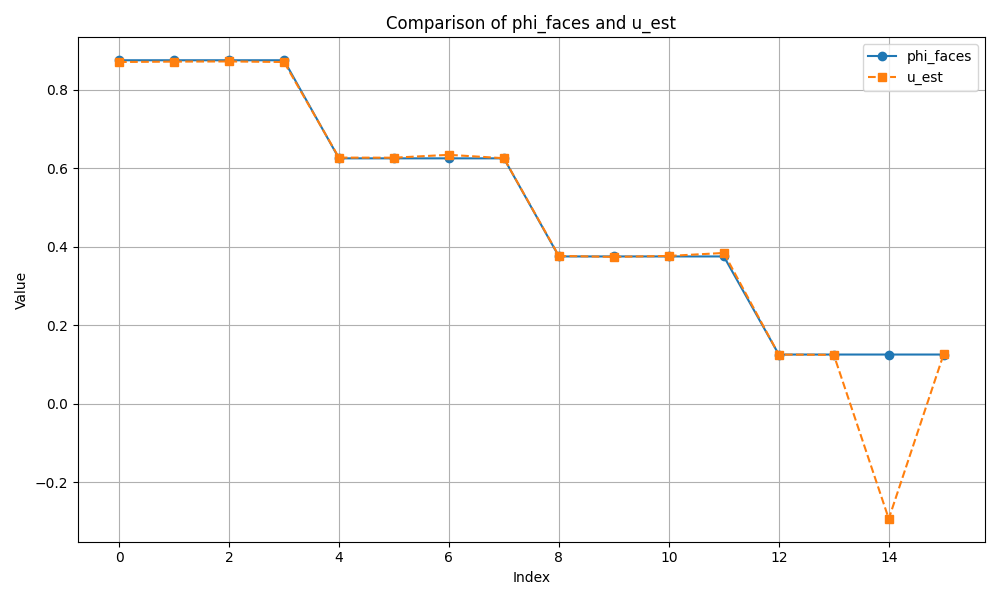
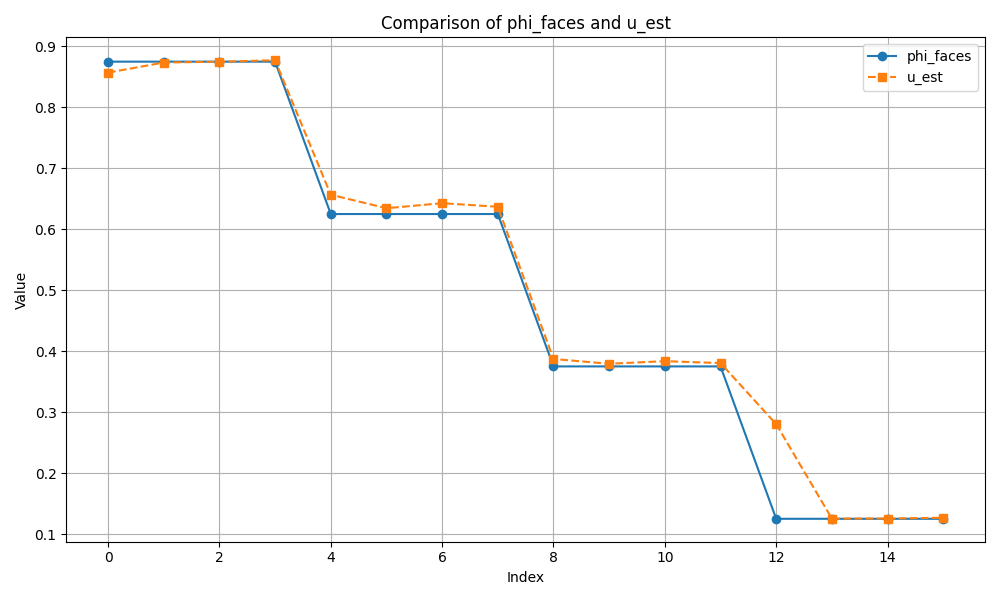
finished up

diff --git a/ddec/train.py b/ddec/train.py
@@ -1,4 +1,5 @@
 import matplotlib.pyplot as plt
+import numpy as np
 from DDEC_Net import DDECModel, PerturbNet
 import torch
 from tqdm import tqdm
@@ -30,15 +31,6 @@ def train_main(N, alpha, iter, tol, epsilon, in_dim, out_dim, epochs, problem_ty
     u = u.to(device)
     perturb = perturb.to(device)
 
-    #print batches
-    for X in batches:
-        f, phi_faces, alpha = X
-        print(f)
-        print(phi_faces)
-        print(alpha)
-
-
-
     with tqdm(total= epochs, desc="Training", unit="epoch", colour='green') as pbar:
         for epoch in range(epochs):
             perturb_contribution = 0
@@ -65,17 +57,12 @@ def train_main(N, alpha, iter, tol, epsilon, in_dim, out_dim, epochs, problem_ty
                 optimizer.zero_grad()
 
                 losses.append(loss.item())
-            val = perturb_contribution / len(batches)
 
             pbar.set_postfix({
-        "loss": f"{loss.item():.4f}",
-        "NN val ": f"{val:.4e}"
+        "loss": f"{loss.item():.8f}"
     })
             pbar.update(1)
 
-            # if (loss.item() < 1e-10):
-            #     print(f"Converged at epoch {epoch} with loss {loss.item()}")
-            #     brea
     print(f"Training completed after {epochs} epochs with final loss: {loss.item()}")
 
     for X in batches:

diff --git a/ddec/utils.py b/ddec/utils.py
@@ -120,6 +120,5 @@ def plot_results(phi_faces,u_est, N, problem_type,alpha,show_plot=False):
         plt.savefig(f'../results/N={N}_alpha={alpha}_D2_results.png')
     if show_plot:
         plt.show()
-    print("Training completed successfully.")
     print(f"Loss comparison plot saved in /results")
     #plt.show()

diff --git a/README.md b/README.md
@@ -31,13 +31,21 @@ The following are the results for the D1 problem of the paper over different dom
 
 ## Darcy problem D2 results
 
+The following are the results for the D2 problem of the paper. The model was trained with a batch size of 3 for different boundary conditions ($\alpha \in \{1,2,4\}$) for a grid size of 7x7.
 
-<!-- 
-The following are the results for the D2 problem of the paper. The model was trained with a batch size of 3 for different boundary conditions ($\alpha \in \{1,2,4\}$).
+<img  src="results/N=7_alpha=1_D2_results.png">
 
-<img  src="results/N=6_alpha=1_D2_results.png">
+<img  src="results/N=7_alpha=2_D2_results.png">
 
-<img  src="results/N=6_alpha=2_D2_results.png">
+<img  src="results/N=7_alpha=4_D2_results.png">
 
-<img  src="results/N=6_alpha=4_D2_results.png"> -->
+A modification was made to the non-linear strategy as compared to the original paper, which should scale better for larger problems. In the paper a non-linear perturbation is added into the differential equation representation itself, represented by a neural network. The equation is as follows:
+$$
+DIV.GRAD*.u_0 \; + \; \epsilon.DIV.\mathcal{NN}(GRAD*.u_0; \xi) = f_0
+$$
 
+This means that when training our model, since we are computing $u_0$ iteratively, we also need to compute the jacobian (and its inverse). This clearly doesn't scale well for larger problems. Instead we have introduced a non-linear perturbation to the estimated solution itself:
+
+$$
+u = \hat{u} + \epsilon.\mathcal{NN}(f; \xi)
+$$
